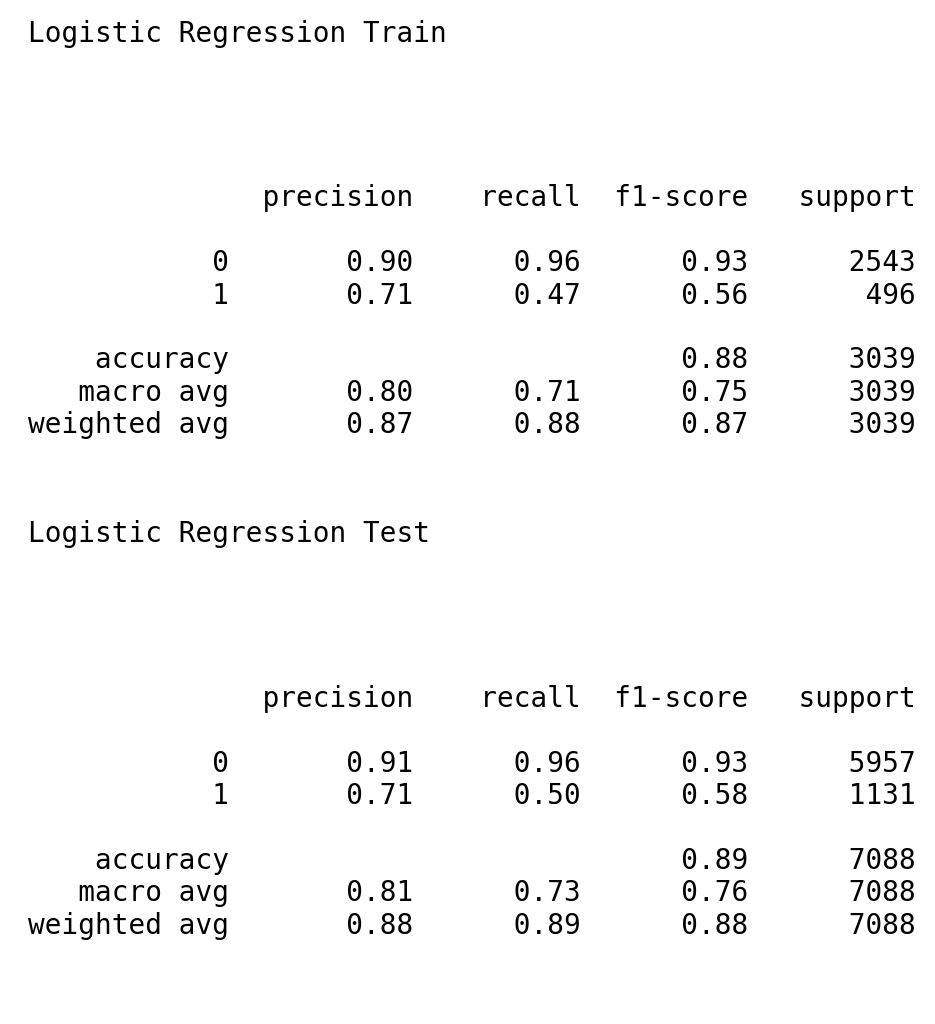
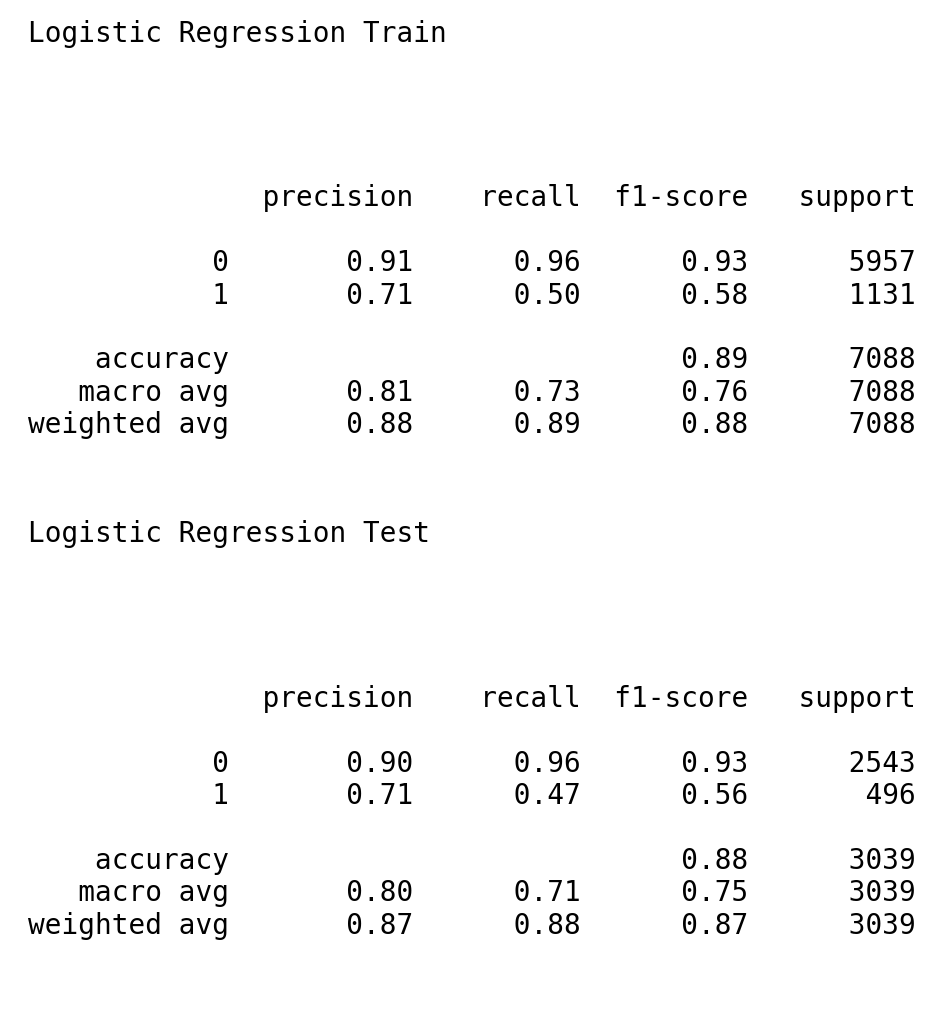
updated readme

diff --git a/churn_library.py b/churn_library.py
@@ -238,7 +238,7 @@ def classification_report_image(model: sklearn.base.BaseEstimator,
     plt.text(0.01, 1.25, str(f'{model_name} Train'), {
              'fontsize': 10}, fontproperties='monospace')
     plt.text(
-        0.01, 0.05, str(
+        0.01, 0.7, str(
             classification_report(
                 y_train, y_train_preds)), {
             'fontsize': 10}, fontproperties='monospace')
@@ -247,7 +247,7 @@ def classification_report_image(model: sklearn.base.BaseEstimator,
     plt.text(0.01, 0.6, str(f'{model_name} Test'), {
              'fontsize': 10}, fontproperties='monospace')
     plt.text(
-        0.01, 0.7, str(
+        0.01, 0.05, str(
             classification_report(
                 y_test, y_test_preds)), {
             'fontsize': 10}, fontproperties='monospace')

diff --git a/test_churn_library.py b/test_churn_library.py
@@ -139,14 +139,14 @@ def test_perform_feature_split_ratio():
     '''
     test_df = create_test_df()
     params = {'target_col': 'test_target',
-              'test_ratio': 0.5,
+              'test_ratio': 0.25,
               'cat_columns': ['B'],
               'quant_columns': ['A']}
 
     X_train, X_test, y_train, y_test = perform_feature_engineering(
         test_df, params)
     try:
-        assert len(y_test) / len(test_df) == 0.5
+        assert len(y_test) / len(test_df) == 0.25
         logging.info(
             'SUCCESS: perform_feature_engineering output split validated')
     except AssertionError as err:

diff --git a/README.md b/README.md
@@ -1,12 +1,83 @@
 # Predict Customer Churn
 
-Project **Predict Customer Churn** of ML DevOps Engineer Nanodegree Udacity
+Project **Predict Customer Churn** of ML DevOps Engineer Nanodegree Udacity. 
 
 ## Project Description
-Your project description here.
+**Objective**: predict churn for bank customers based on their demographical and bank activity features. 
 
+This is binary classification problem with imbalanced classes (84% of 0's VS 16% of 1's). The dataset
+includes 10127 samples with 20 features (10 numerical and 10 categorical).
+
+Main pipeline `churn_library.py` includes the following steps:
+* EDA of input data using `sweetviz` library. EDA report is generated and saved to `images/eda`
+* Preprocessing of categorical features by target-encoding approach
+* Training Logistic regression and Random Forest classifier and comparing them via ROC curves and ROC-AUC scores
+* Saving pre-trained models to `models`
+* Saving feature importance, ROC-curves and classification reports to `images/results`
+
+Main pipeline methods are covered by unit tests in `test_churn_library.py`
+
+All parameters needed to run pipeline are kept in `config.yaml`:
+```yaml
+dataset_path: ./data/bank_data.csv      # file with data
+save_model_dir: ./models/               # output path to save pretrained models
+save_results_dir: ./images/results/     # output path to save model training results
+save_eda_dir: ./images/eda/             # output path to save EDA report
+
+cat_columns:                            # list of categorical columns to use as features
+  - Gender
+  - Education_Level
+  - Marital_Status
+  - Income_Category
+  - Card_Category
+
+quant_columns:                          # list of numerical columns to use as features
+  - Customer_Age
+  - Dependent_count
+  - Months_on_book
+  - Total_Relationship_Count
+  - Months_Inactive_12_mon
+  - Contacts_Count_12_mon
+  - Credit_Limit
+  - Total_Revolving_Bal
+  - Avg_Open_To_Buy
+  - Total_Amt_Chng_Q4_Q1
+  - Total_Trans_Amt
+  - Total_Trans_Ct
+  - Total_Ct_Chng_Q4_Q1
+  - Avg_Utilization_Ratio
+
+target_col: Churn                     # name of column where binary (1/0) target will be kept 
+test_ratio: 0.3                       # share of test in train/test split
+
+RF_param_grid:                        # parameters grid for Random Forest GridSearch
+  n_estimators: [200, 500]
+  max_features: ['auto', 'sqrt']
+  max_depth: [4, 5, 100]
+  criterion: ['gini', 'entropy']
+```
 
 ## Running Files
-How do you run your files? What should happen when you run your files?
+* Create and activate environment, install requirements 
+```
+conda create --name your_environment_name python
+conda activate your_environment_name
+pip install -r requirements.txt
+```
+* Check `config.yaml`. You can keep default configuration or adapt paths and parameters by your choice.
+* Run main pipeline
+```
+python churn_library.py
+```
+* If you are doing further changes in methods, run tests to check that pipeline is not broken. Tests can be run via `pytest`
+```
+pytest test_churn_library.py
+```
+or via main
+```
+python test_churn_library.py
+```
+* Logs of pipeline runs are kept in `logs` folder
+
 
 
